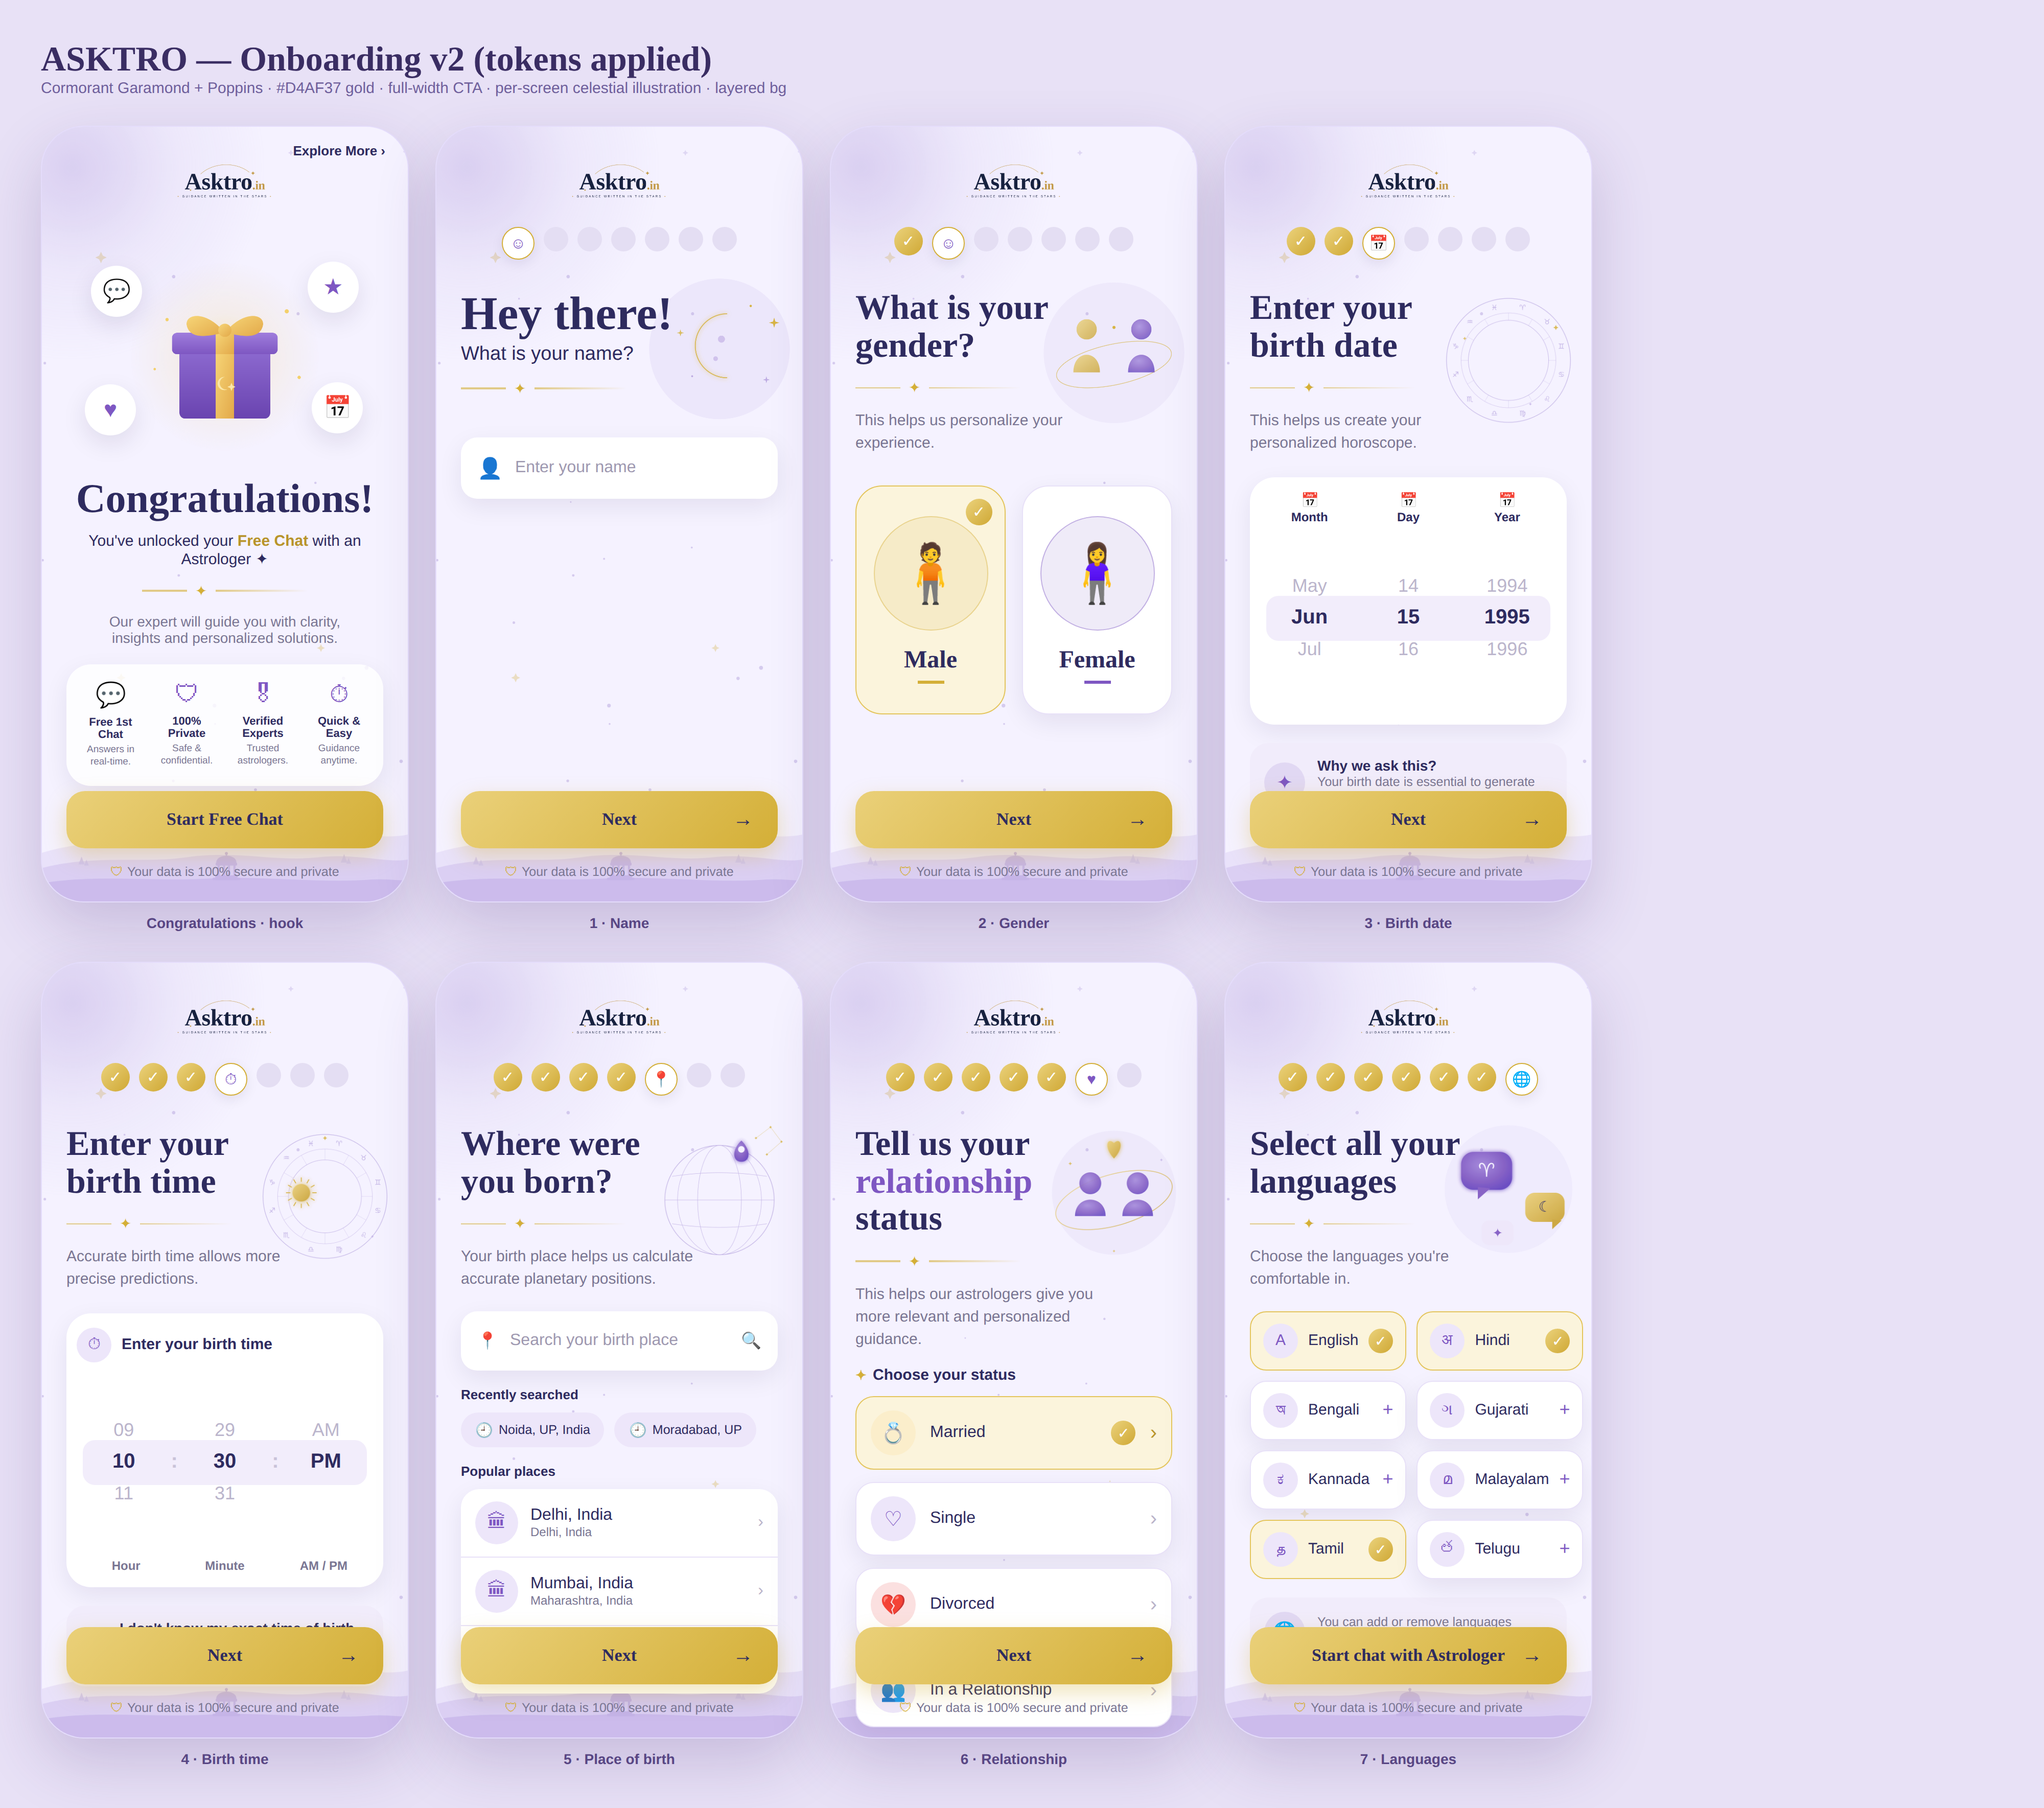
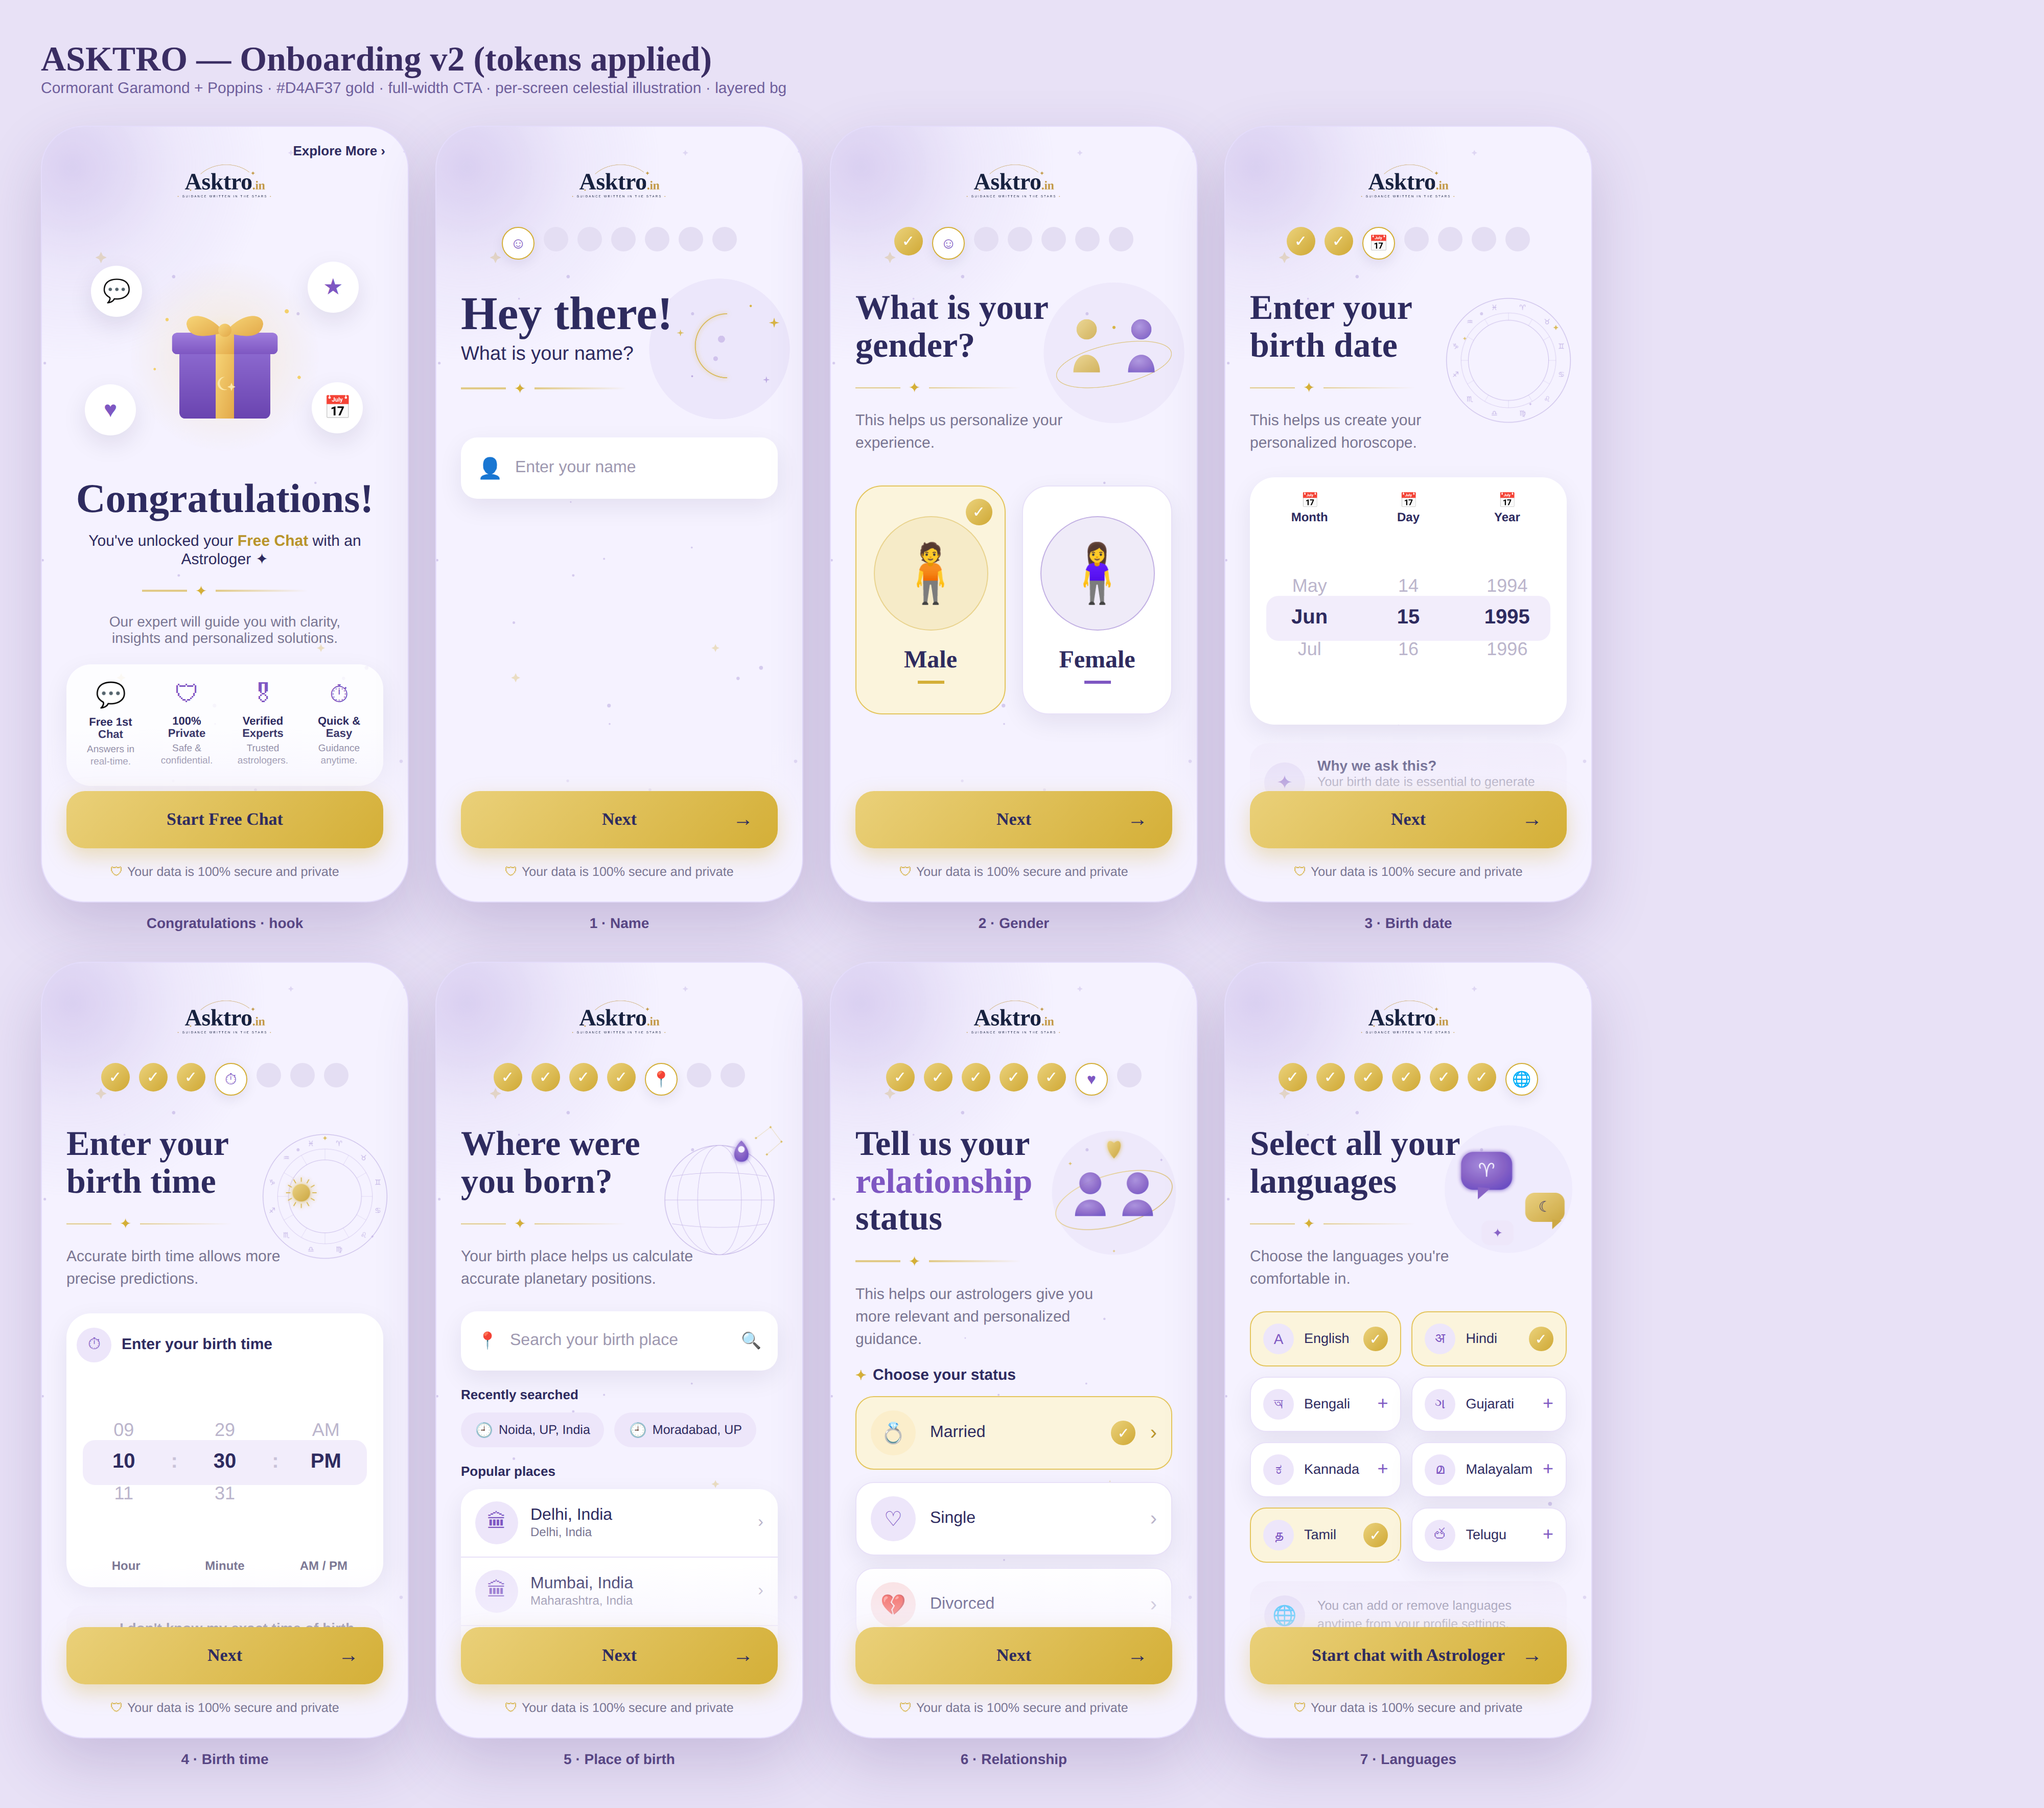
fix(customer): onboarding footer overlap, scenery legibility, long labels
Device review surfaced real layout bugs:
- Scrolling content ended flush against the CTA with no separation, and
  the "secure" line sat on top of the scenery — read as broken/overlapping.
  Add a fade-to-background scrim behind the footer, 28px scroll bottom
  padding, and drop scenery opacity to 40% so the CTA + footer sit clean.
- Language tiles truncated long names ("Malayalam"): smaller glyph badge,
  tighter spacing, 13.5px label so all names fit.
- Illustrations rendered at full opacity.

Claude-Session: https://claude.ai/code/session_01ARN2cW8n5nnHYScBdeGde2

diff --git a/apps/customer/lib/features/profile_setup/onboarding_widgets.dart b/apps/customer/lib/features/profile_setup/onboarding_widgets.dart
@@ -50,10 +50,10 @@ class OnboardingScaffold extends StatelessWidget {
           ),
           if (illustration != null)
             Positioned(
-              top: 118,
-              right: -26,
+              top: 116,
+              right: -22,
               child: IgnorePointer(
-                child: Opacity(opacity: 0.92, child: Image.asset(illustration!, width: 214)),
+                child: Image.asset(illustration!, width: 210),
               ),
             ),
           Positioned(
@@ -61,7 +61,7 @@ class OnboardingScaffold extends StatelessWidget {
             right: 0,
             bottom: 0,
             child: IgnorePointer(
-              child: Opacity(opacity: 0.55, child: Image.asset(Ob.scenery, fit: BoxFit.fitWidth)),
+              child: Opacity(opacity: 0.4, child: Image.asset(Ob.scenery, fit: BoxFit.fitWidth)),
             ),
           ),
           SafeArea(
@@ -75,13 +75,24 @@ class OnboardingScaffold extends StatelessWidget {
                 Expanded(
                   child: SingleChildScrollView(
                     physics: const BouncingScrollPhysics(),
+                    // generous bottom padding so the last item never crowds the CTA
                     padding: const EdgeInsets.fromLTRB(
-                        Ob.screenPad, Ob.section, Ob.screenPad, 12),
+                        Ob.screenPad, Ob.section, Ob.screenPad, 28),
                     child: content,
                   ),
                 ),
-                Padding(
-                  padding: const EdgeInsets.fromLTRB(Ob.screenPad, 4, Ob.screenPad, 16),
+                // Fade-to-background scrim: scrolling content and scenery fade
+                // out cleanly so the CTA + "secure" line sit on a solid base.
+                Container(
+                  decoration: BoxDecoration(
+                    gradient: LinearGradient(
+                      begin: Alignment.topCenter,
+                      end: Alignment.bottomCenter,
+                      colors: [Ob.bgColor.withValues(alpha: 0), Ob.bgColor],
+                      stops: const [0, 0.5],
+                    ),
+                  ),
+                  padding: const EdgeInsets.fromLTRB(Ob.screenPad, 22, Ob.screenPad, 14),
                   child: footer,
                 ),
               ],

diff --git a/apps/customer/lib/features/profile_setup/profile_setup_screen.dart b/apps/customer/lib/features/profile_setup/profile_setup_screen.dart
@@ -626,7 +626,7 @@ class _ProfileSetupScreenState extends ConsumerState<ProfileSetupScreen> {
       }),
       child: AnimatedContainer(
         duration: const Duration(milliseconds: 140),
-        padding: const EdgeInsets.symmetric(horizontal: 12, vertical: 12),
+        padding: const EdgeInsets.symmetric(horizontal: 10, vertical: 11),
         decoration: BoxDecoration(
           color: selected ? Ob.selectedFill : Ob.surface,
           borderRadius: BorderRadius.circular(16),
@@ -636,15 +636,22 @@ class _ProfileSetupScreenState extends ConsumerState<ProfileSetupScreen> {
         child: Row(
           children: [
             Container(
-              width: 34,
-              height: 34,
+              width: 30,
+              height: 30,
               decoration: const BoxDecoration(color: Ob.lavenderChip, shape: BoxShape.circle),
               alignment: Alignment.center,
-              child: Text(glyph, style: Ob.option.copyWith(color: Ob.purple, fontSize: 16)),
+              child: Text(glyph, style: Ob.option.copyWith(color: Ob.purple, fontSize: 15)),
             ),
-            const SizedBox(width: 10),
-            Expanded(child: Text(label, style: Ob.option.copyWith(fontSize: 15), overflow: TextOverflow.ellipsis)),
-            selected ? const GoldCheck(size: 22) : const Icon(Icons.add_rounded, color: Ob.purple, size: 20),
+            const SizedBox(width: 8),
+            Expanded(
+              child: Text(label,
+                  style: Ob.option.copyWith(fontSize: 13.5),
+                  maxLines: 1,
+                  overflow: TextOverflow.ellipsis),
+            ),
+            selected
+                ? const GoldCheck(size: 20)
+                : const Icon(Icons.add_rounded, color: Ob.purple, size: 18),
           ],
         ),
       ),
